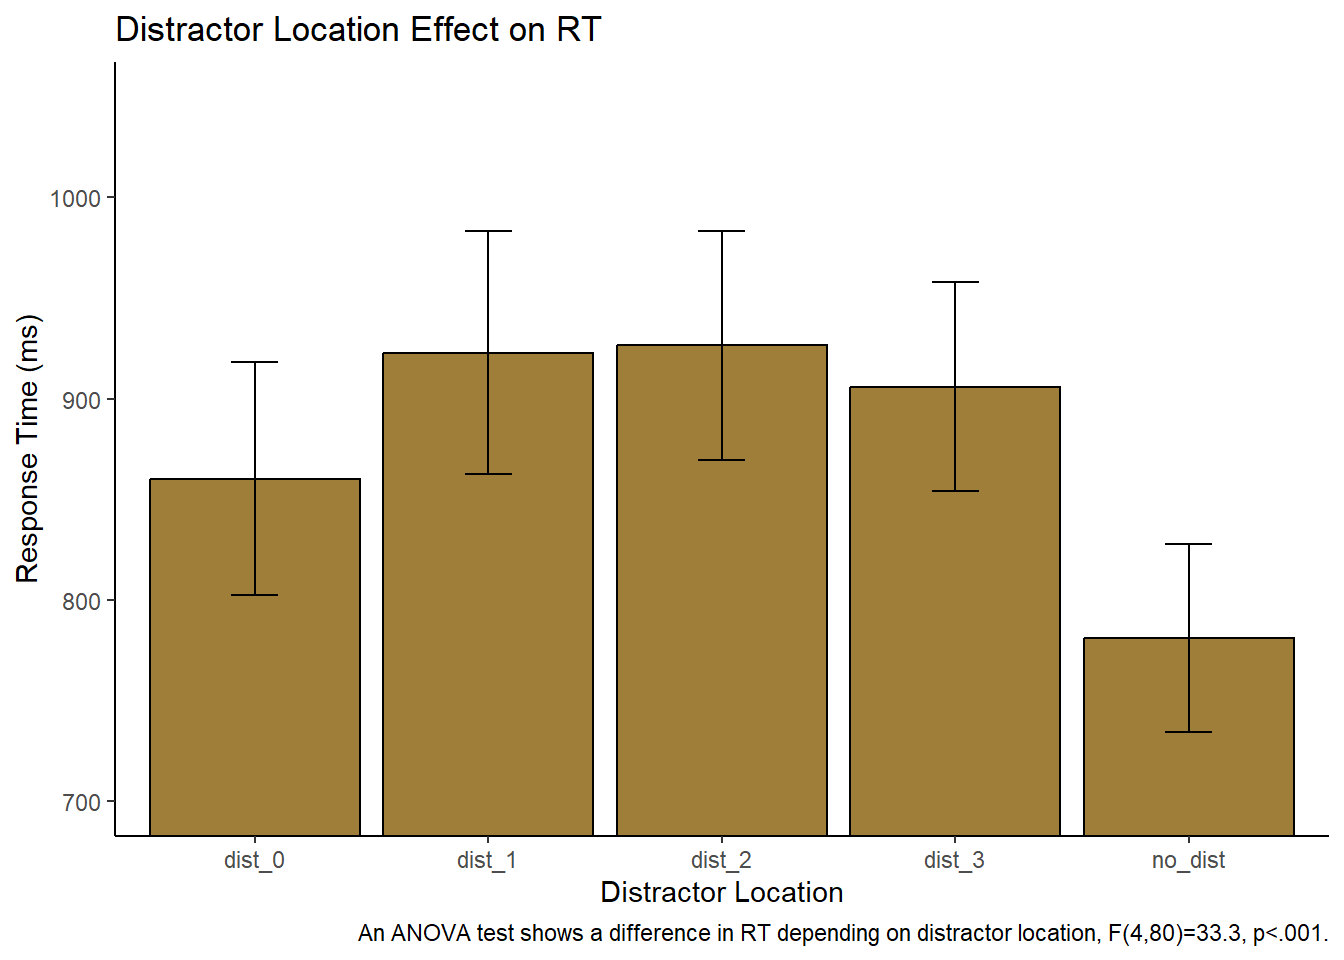
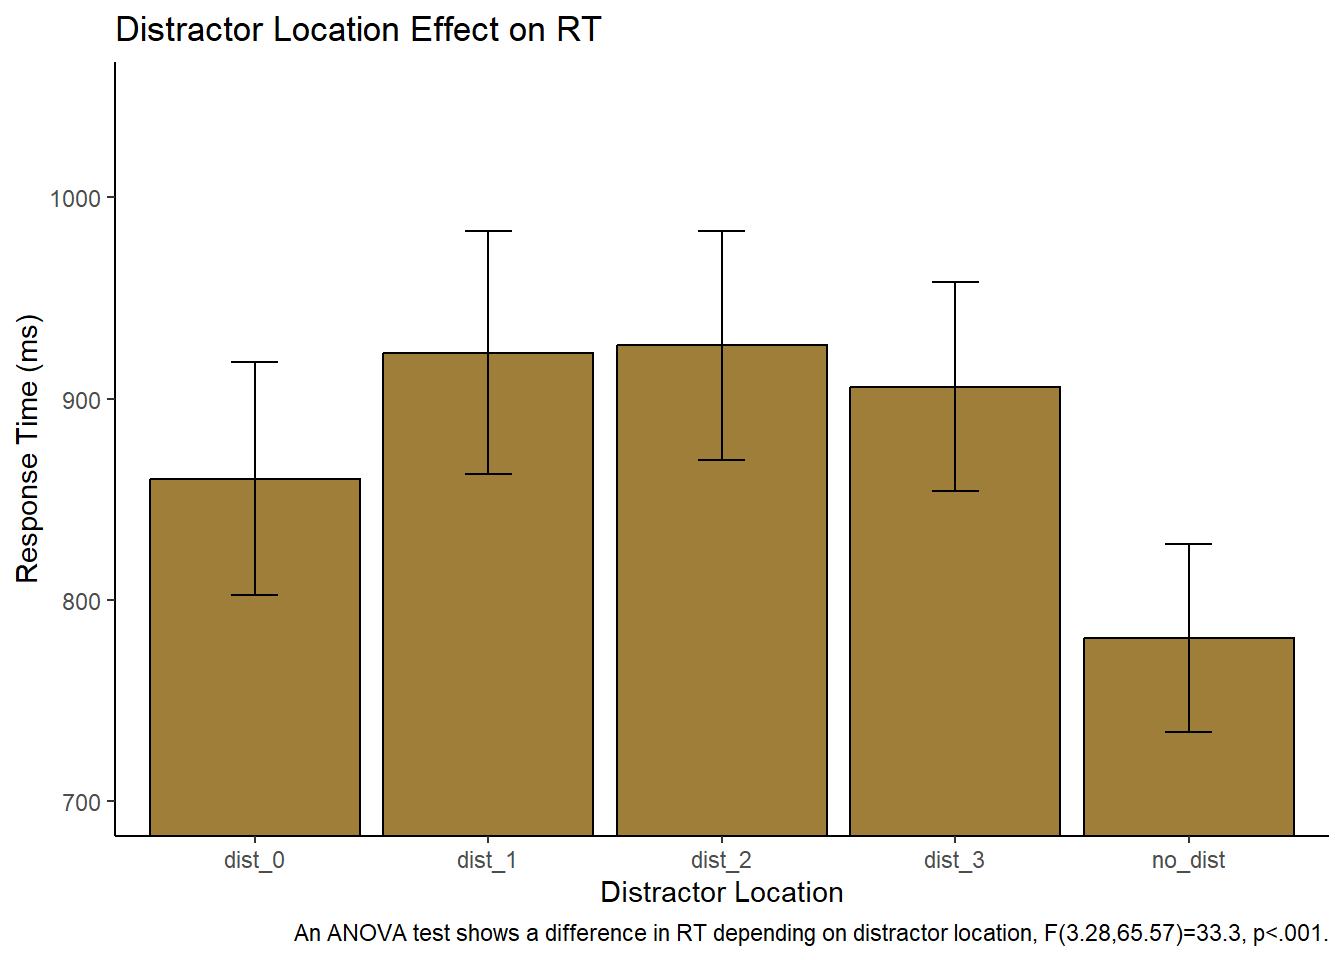
Updated portfolios 1 + 2

Changed region(s): [[0.2188, 0.9375, 0.875, 1.0]]

diff --git a/docs/p02.html b/docs/p02.html
@@ -437,8 +437,8 @@ scheme.</p>
 <p><img src="p02_files/figure-html/-%20graph%201%20-%20distractor%20location%20effect%20on%20rt-1.png" width="672" /></p>
 <pre class="r"><code>df2 &lt;- subset(trimmed,block_num!=&#39;7&#39; &amp; relative_hp_dist==&quot;no_dist&quot;)
 df2 &lt;- subset(df2,block_num!=&#39;8&#39;)
-#df2 &lt;- subset(df2,block_num!=&#39;5&#39;)
-#df2 &lt;- subset(df2,block_num!=&#39;6&#39;)
+df2 &lt;- subset(df2,block_num!=&#39;5&#39;)
+df2 &lt;- subset(df2,block_num!=&#39;6&#39;)
 
 space2&lt;- df2 %&gt;%
   group_by(ID, relative_target) %&gt;%
@@ -451,23 +451,23 @@ space2&lt;- df2 %&gt;%
 ## # Groups:   ID [21]
 ##       ID relative_target   rts
 ##    &lt;dbl&gt; &lt;chr&gt;           &lt;dbl&gt;
-##  1    11 high_prob       1150.
-##  2    11 lp_1            1092.
-##  3    11 lp_2            1113.
-##  4    11 lp_3            1150.
-##  5    12 high_prob        802.
-##  6    12 lp_1             779.
-##  7    12 lp_2             729.
-##  8    12 lp_3             742.
-##  9    13 high_prob        771.
-## 10    13 lp_1             766.
+##  1    11 high_prob       1195.
+##  2    11 lp_1            1177.
+##  3    11 lp_2            1180.
+##  4    11 lp_3            1195.
+##  5    12 high_prob        809.
+##  6    12 lp_1             811.
+##  7    12 lp_2             764.
+##  8    12 lp_3             771.
+##  9    13 high_prob        789.
+## 10    13 lp_1             803.
 ## # … with 74 more rows</code></pre>
 <pre class="r"><code>aov_car(rts ~ relative_target + Error(ID/relative_target), data=space2)</code></pre>
 <pre><code>## Anova Table (Type 3 tests)
 ## 
 ## Response: rts
 ##            Effect          df     MSE    F  ges p.value
-## 1 relative_target 2.39, 47.74 1058.05 2.29 .004    .103
+## 1 relative_target 1.98, 39.63 1989.92 0.66 .002    .519
 ## ---
 ## Signif. codes:  0 &#39;***&#39; 0.001 &#39;**&#39; 0.01 &#39;*&#39; 0.05 &#39;+&#39; 0.1 &#39; &#39; 1
 ## 
@@ -628,18 +628,37 @@ space_half &lt;- space_half %&gt;%
  mutate(low_prob = (lp_1+lp_2+lp_3)/3)
 
 space_half %&gt;%
-  t.test(x=space_half$low_prob, y=space_half$high_prob, alternative=&quot;greater&quot;, mu=0,paired = TRUE, conf.level = .95)</code></pre>
+  t.test(x=space_half$high_prob, y=space_half$low_prob, alternative=&quot;greater&quot;, mu=0,paired = TRUE, conf.level = .95)</code></pre>
 <pre><code>## 
 ##  Paired t-test
 ## 
-## data:  space_half$low_prob and space_half$high_prob
-## t = -2.066, df = 20, p-value = 0.974
+## data:  space_half$high_prob and space_half$low_prob
+## t = 1.014, df = 20, p-value = 0.1613
 ## alternative hypothesis: true mean difference is greater than 0
 ## 95 percent confidence interval:
-##  -35.03614       Inf
+##  -8.682608       Inf
 ## sample estimates:
 ## mean difference 
-##       -19.09513</code></pre>
+##        12.38736</code></pre>
+<p>Examine the summary statistics for subset of data.</p>
+<pre class="r"><code>df_mod2 &lt;- subset(space_half, select=c(ID, high_prob, low_prob))
+df_mod2 &lt;- reshape2::melt(df_mod2, id.var=c(&#39;ID&#39;), variable.name= &quot;relative_target&quot;)
+
+sum_stats3 &lt;- df_mod2%&gt;%
+  group_by(relative_target)%&gt;%
+  summarize(mean_rts=mean(value),
+            sd_rt=sd(value),
+            n_rt=21,
+            se=sd_rt/sqrt(n_rt),
+            upper_limit=mean_rts+se,
+            lower_limit=mean_rts-se
+  )
+sum_stats3</code></pre>
+<pre><code>## # A tibble: 2 × 7
+##   relative_target mean_rts sd_rt  n_rt    se upper_limit lower_limit
+##   &lt;fct&gt;              &lt;dbl&gt; &lt;dbl&gt; &lt;dbl&gt; &lt;dbl&gt;       &lt;dbl&gt;       &lt;dbl&gt;
+## 1 high_prob           850.  138.    21  30.1        880.        820.
+## 2 low_prob            838.  137.    21  29.9        868.        808.</code></pre>
 </div>
 <div id="distractor-and-target-location-effects-on-accuracy"
 class="section level3">

diff --git a/docs/p01.html b/docs/p01.html
@@ -389,7 +389,7 @@ chose those particular colors based on Wake Forest’s color scheme.</p>
   theme_classic()+
   labs(x = &quot;Distractor Location&quot;, y = &quot;Response Time (ms)&quot;)+
   labs(title = &quot;Distractor Location Effect on RT&quot;)+
-  labs(caption = &quot;An ANOVA test shows a difference in RT depending on distractor location, F(4,80)=33.3, p&lt;.001.&quot;)</code></pre>
+  labs(caption = &quot;An ANOVA test shows a difference in RT depending on distractor location, F(3.28,65.57)=33.3, p&lt;.001.&quot;)</code></pre>
 <p><img src="p01_files/figure-html/-%20graph%201%20-%20distractor%20location%20effect%20on%20rt-1.png" width="672" /></p>
 <p>Create a new data frame with the average RT for each relative
 distractor location per participant, so we can do a repeated measures
